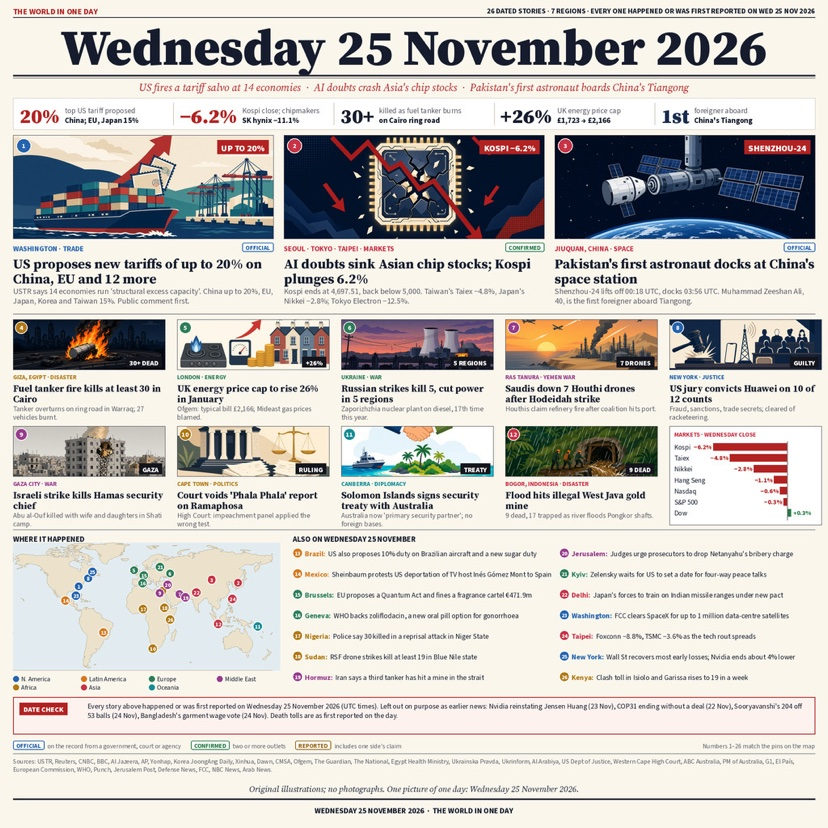
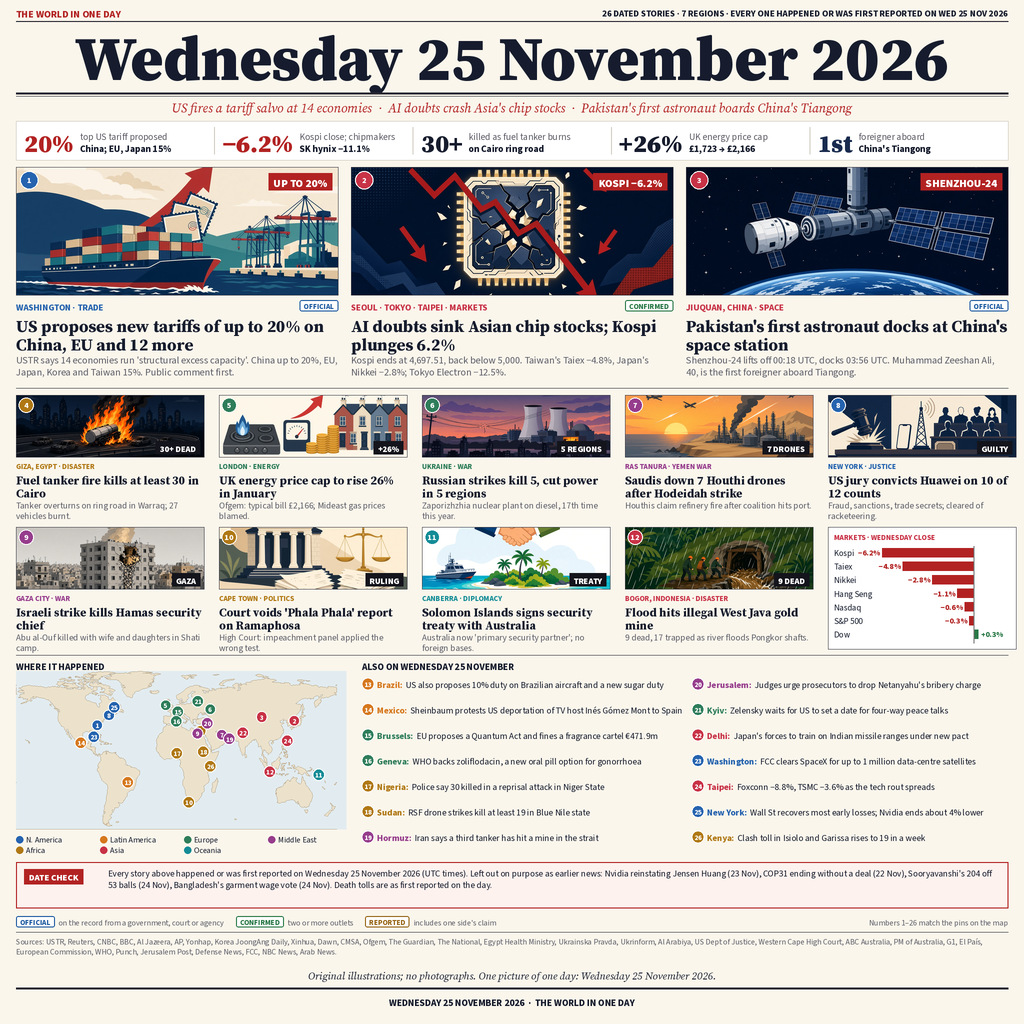
Swap in full-resolution 1024x1024 entry image

diff --git a/README.md b/README.md
@@ -6,7 +6,7 @@
 
 A newspaper front page summing up Wednesday 25 November 2026: the US fires a tariff salvo at 14 economies, AI doubts sink Asian chip stocks, and Pakistan's first astronaut boards China's Tiangong station. The supplied front page is preserved as-is, with no redrawing, headline changes, or added stories.
 
-`entry.png` is the supplied 828x828 JPEG (316,293 bytes). The program copies these fixed image bytes and needs no network or dependencies.
+`entry.png` is the supplied 1024x1024 JPEG (480,699 bytes). The program copies these fixed image bytes and needs no network or dependencies.
 
 ## Stories covered
 
